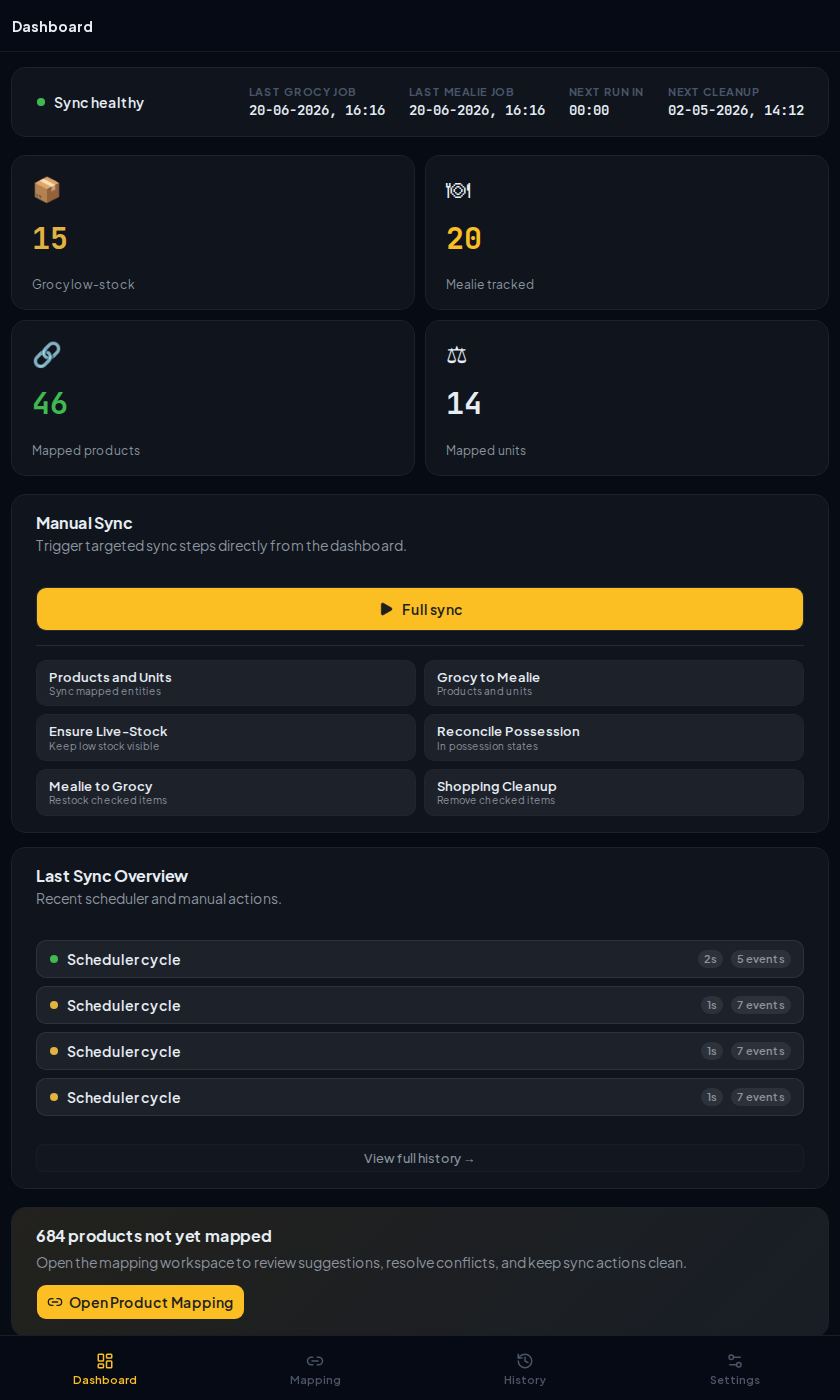
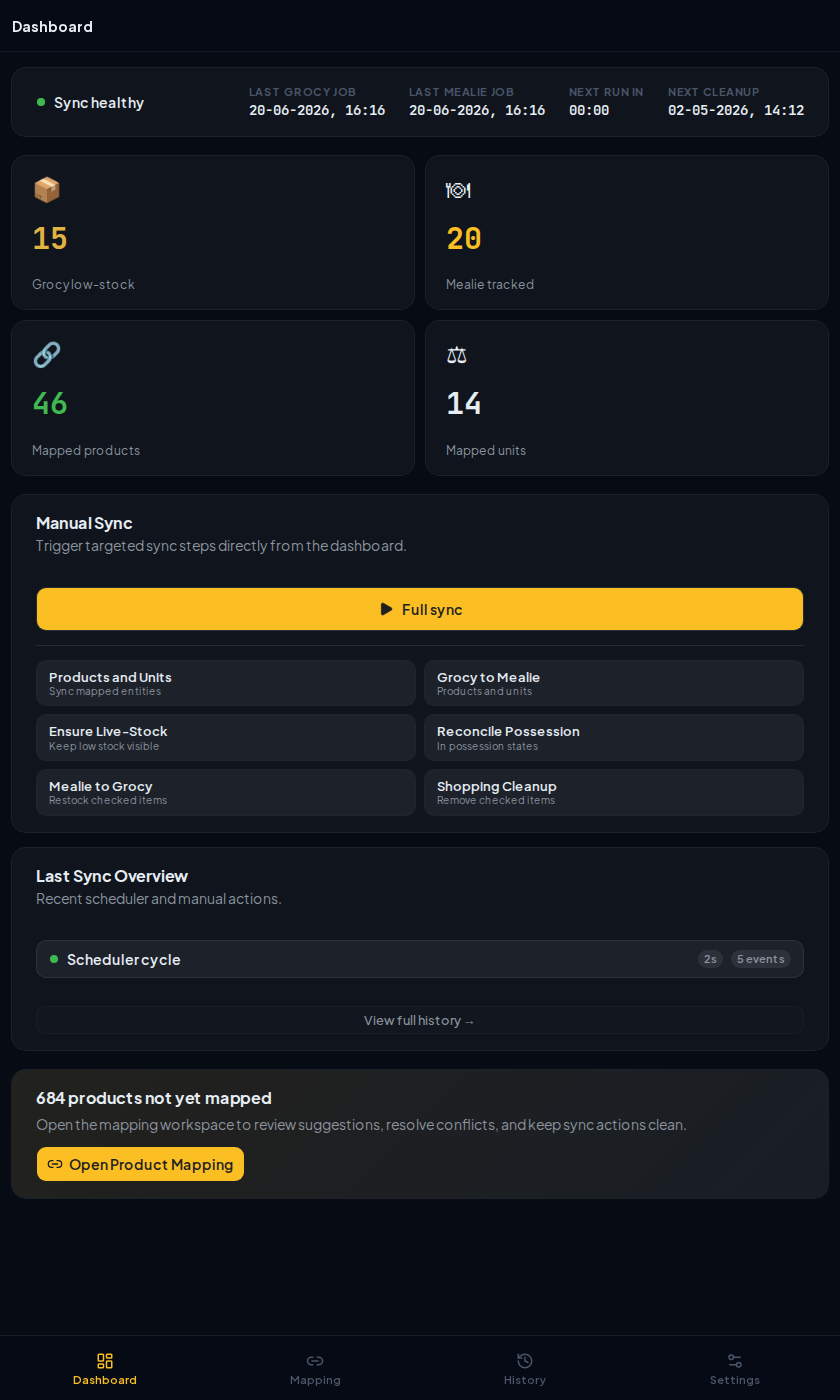
chore(release): prepare v1.14.0

Changed region(s): [[0.0, 0.7064, 0.8048, 0.9521], [0.8357, 0.7064, 0.9595, 0.7986], [0.4333, 0.7064, 0.5571, 0.7371]]

diff --git a/CHANGELOG.md b/CHANGELOG.md
@@ -2,6 +2,14 @@
 
 All notable changes to this project are documented in this file.
 
+## [1.14.0] - 2026-07-01
+
+This minor release exposes `shoppingListAmount` on device products so the scanner can display needed stock amounts.
+
+### Added
+
+- Device API (`GET /api/device/v1/products` and `GET /api/device/v1/products/{id}`) now returns `shoppingListAmount` for each product.
+
 ## [1.13.0] - 2026-06-22
 
 This minor release extends the device API with a product lookup endpoint, advertises an API version for firmware capability negotiation, and improves device scan reliability.
@@ -297,6 +305,7 @@ This release promotes the current base to `1.0.0`. Compared with `v0.0.1`, the p
 
 - First tagged preview release.
 
+[1.14.0]: https://github.com/HarmEllis/grocy-mealie-sync/compare/v1.13.0...v1.14.0
 [1.13.0]: https://github.com/HarmEllis/grocy-mealie-sync/compare/v1.12.0...v1.13.0
 [1.12.0]: https://github.com/HarmEllis/grocy-mealie-sync/compare/v1.11.0...v1.12.0
 [1.11.0]: https://github.com/HarmEllis/grocy-mealie-sync/compare/v1.10.0...v1.11.0